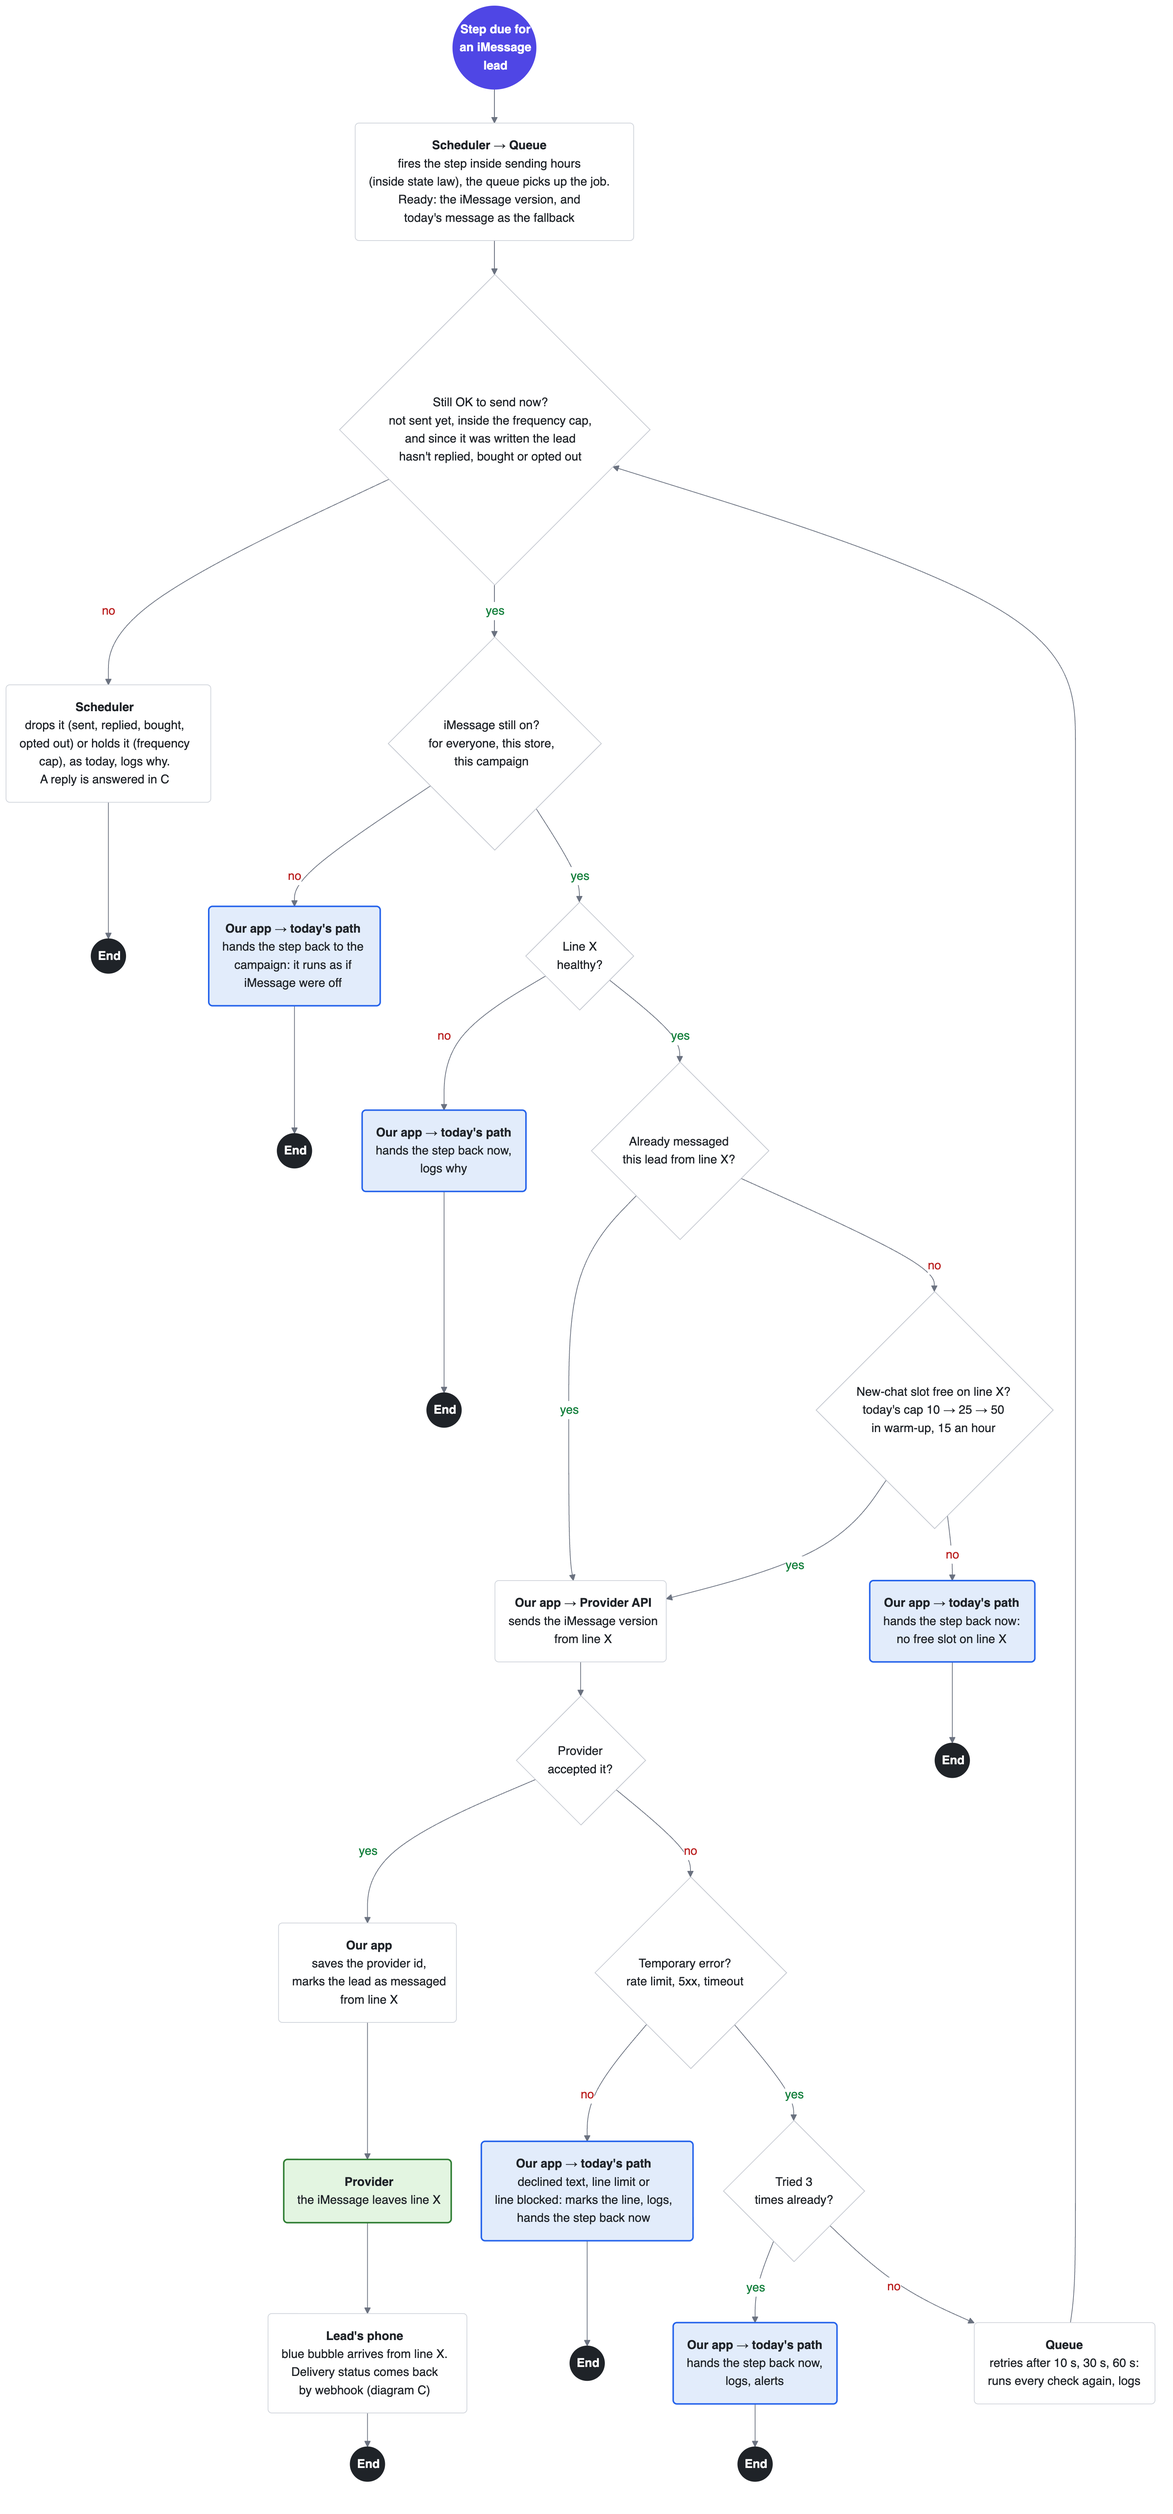
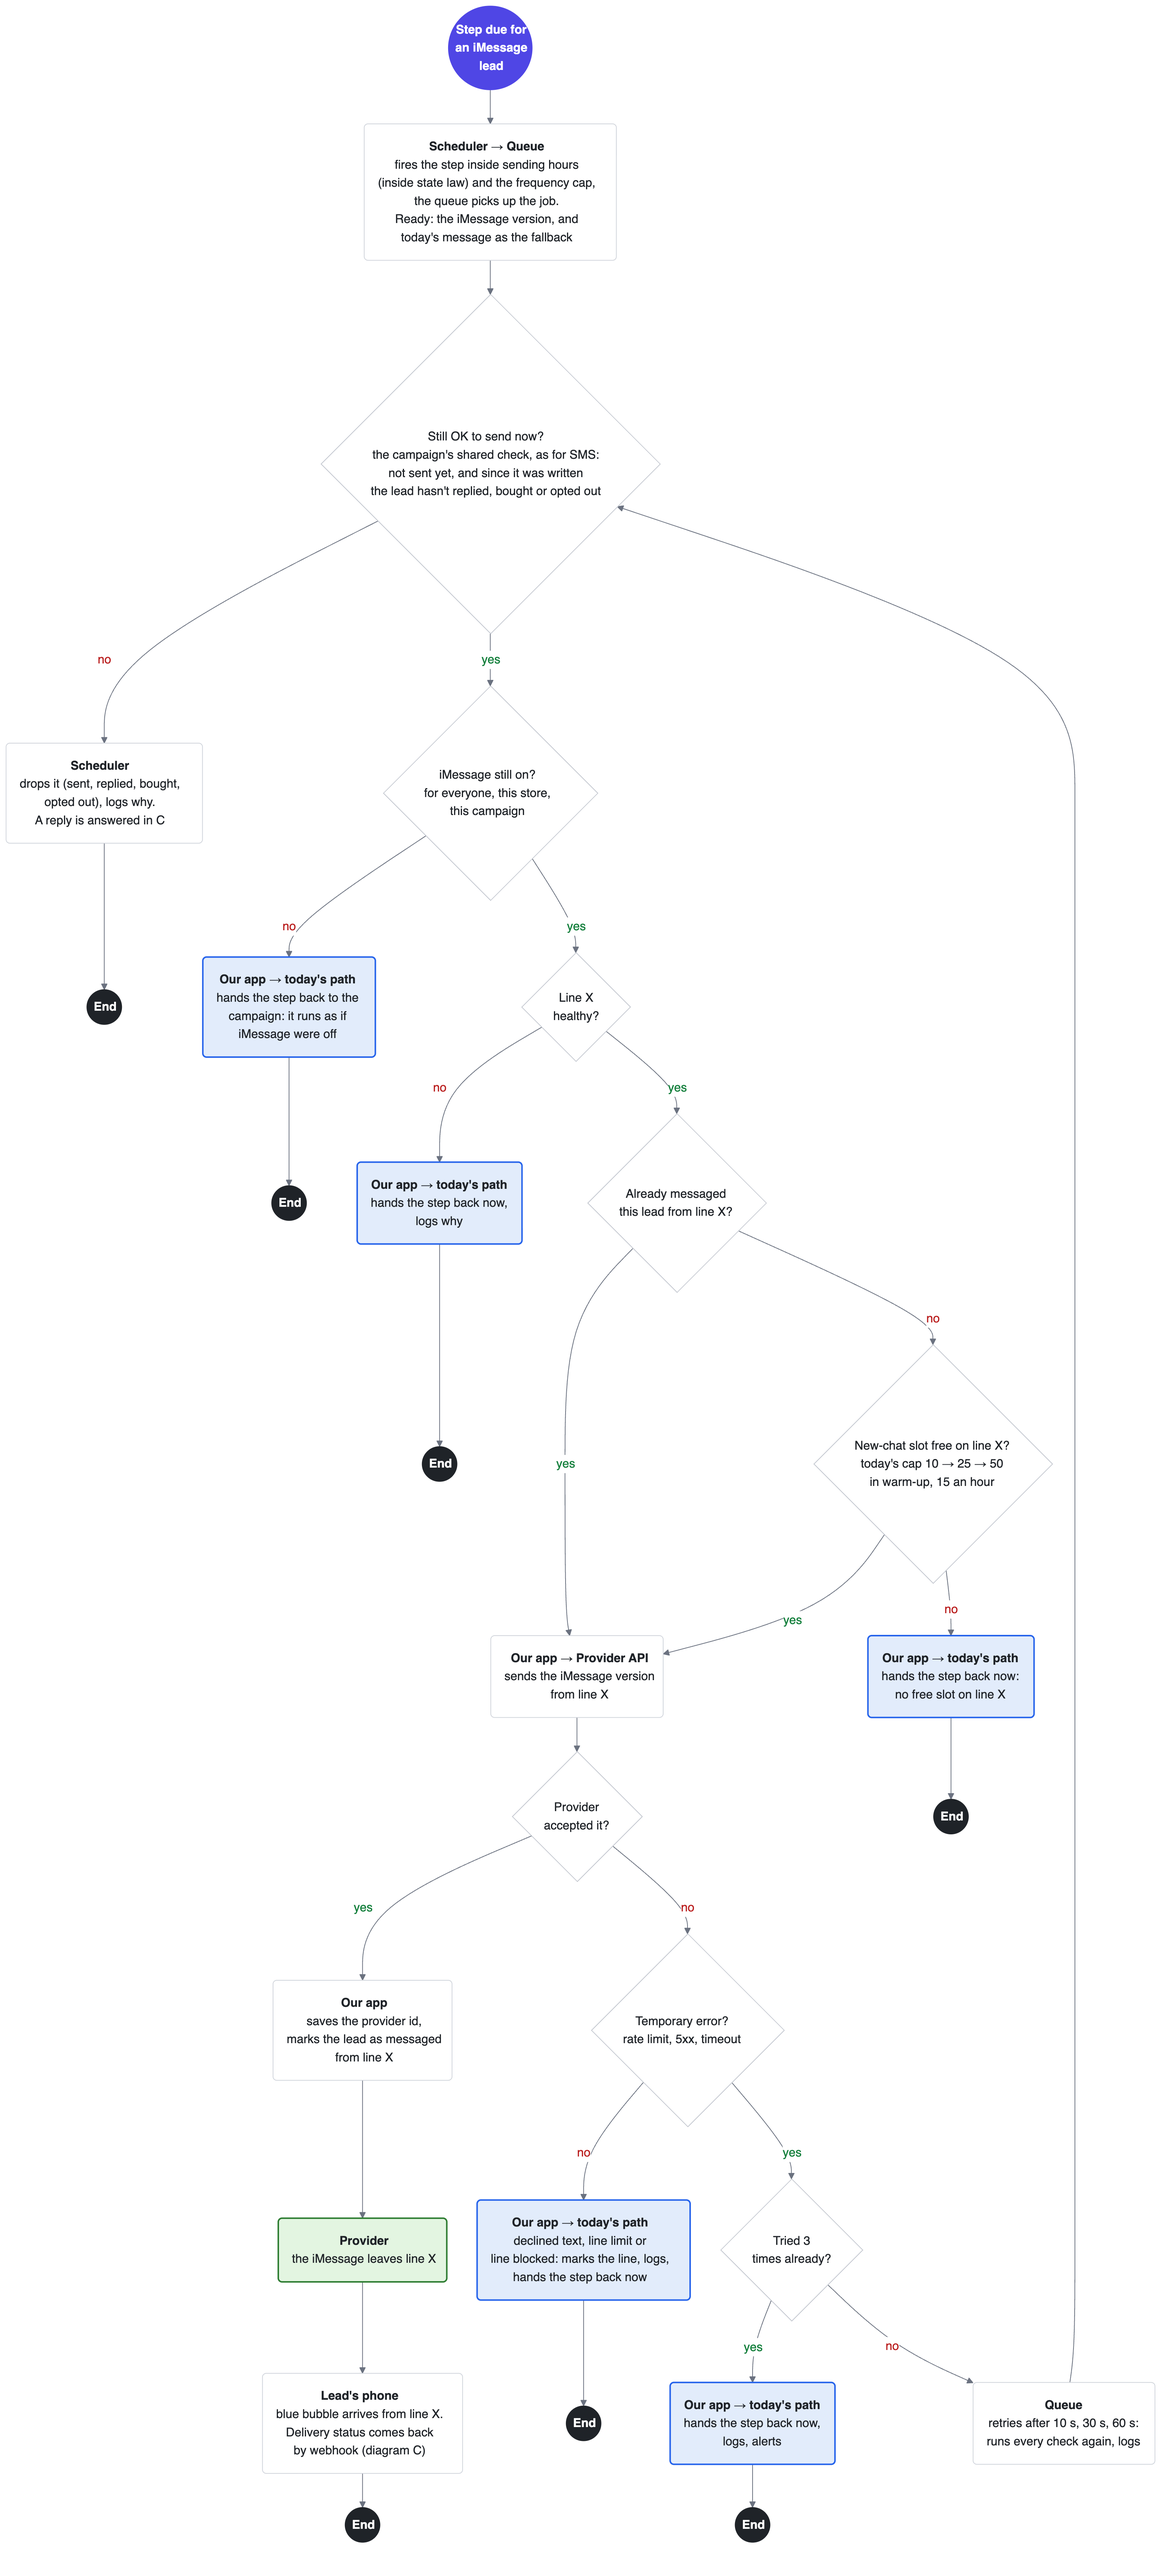
Diagram B: frequency cap moves to the scheduler; the send-time check is the campaign's shared one

diff --git a/diagrams.md b/diagrams.md
@@ -16,9 +16,9 @@ Back to the plan: [README.md](README.md)
 - **iMessage switches:** one for everyone on Outcraft (our team, or the circuit breaker when the provider is down), one per store (our admins), one per campaign. All three must be on.
 - **Which steps:** iMessage is a fifth channel. A text step is an SMS step or an iMessage step. A campaign can add iMessage steps, each with a fallback the campaign sets (SMS or a call). For a lead on iMessage, SMS steps also go from line X. One number per lead: after a hand-back, the lead's next steps run as today.
 - **Today's message:** what the campaign sends without iMessage. For an SMS step, the AI writes it as today. For an iMessage step, it's the message for its fallback (nothing to write for a call). The AI also writes an iMessage version.
-- **What B leaves to today's system:** sending hours and state legal hours (the scheduler fires the step inside them), opt-out and frequency caps (the send-time checks). B adds only the iMessage on-switch and line X's limits.
+- **What B leaves to today's system:** sending hours, state legal hours and the frequency cap (the scheduler fires the step inside them); reply, purchase and opt-out (the campaign's shared check, the same one SMS uses, run again at send time). B adds only the iMessage on-switch and line X's limits.
 - **Legal hours in C:** live replies skip the scheduler, so C checks legal hours itself, with the same rule. It checks before the AI writes, so no answer waits for hours and goes out stale.
-- **Checks in two places:** the full iMessage check runs before writing. At send time, the send-time checks and the on-switch run again, so nothing stale goes out. If the check, or the lookup, fails, the lead stays on today's path.
+- **Checks in two places:** the full iMessage check runs before writing. At send time, the campaign's shared check and the on-switch run again, so nothing stale goes out. If the check, or the lookup, fails, the lead stays on today's path.
 - **When iMessage fails:** if we know it didn't arrive (refused, failed, not on iMessage), today's message goes at once, the campaign's way. If we don't know (no receipt in 15 min), we don't resend, so the lead never gets both. The lead is marked, and the next steps run as today.
 - **The call after a text:** their default sequence calls about 3 minutes after a text step. That stays. If the lead replies first, the reply cancels scheduled steps, including that call (diagram C).
 - **Logging:** every refusal, retry, fallback and drop is logged with its reason and the provider's error key.
@@ -37,9 +37,9 @@ Back to the plan: [README.md](README.md)
 ```mermaid
 %%{init: {"theme": "base", "themeVariables": {"fontFamily": "Helvetica, Arial, sans-serif", "primaryColor": "#ffffff", "primaryBorderColor": "#d0d4db", "primaryTextColor": "#1f2328", "lineColor": "#6b7280", "edgeLabelBackground": "#ffffff"}, "themeCSS": "foreignObject { overflow: visible; } .nodeLabel { white-space: nowrap; }", "flowchart": {"curve": "basis", "nodeSpacing": 40, "rankSpacing": 45, "padding": 18}}}%%
 flowchart TD
-    S(("<b>Step due for<br/>an iMessage<br/>lead</b>")) --> A1("<b>Scheduler → Queue</b><br/>fires the step inside sending hours<br/>(inside state law), the queue picks up the job.<br/>Ready: the iMessage version, and<br/>today's message as the fallback")
-    A1 --> Q0{"Still OK to send now?<br/>not sent yet, inside the frequency cap,<br/>and since it was written the lead<br/>hasn't replied, bought or opted out"}
-    Q0 -- no --> X3("<b>Scheduler</b><br/>drops it (sent, replied, bought,<br/>opted out) or holds it (frequency<br/>cap), as today, logs why.<br/>A reply is answered in C") --> E0(("<b>End</b>"))
+    S(("<b>Step due for<br/>an iMessage<br/>lead</b>")) --> A1("<b>Scheduler → Queue</b><br/>fires the step inside sending hours<br/>(inside state law) and the frequency cap,<br/>the queue picks up the job.<br/>Ready: the iMessage version, and<br/>today's message as the fallback")
+    A1 --> Q0{"Still OK to send now?<br/>the campaign's shared check, as for SMS:<br/>not sent yet, and since it was written<br/>the lead hasn't replied, bought or opted out"}
+    Q0 -- no --> X3("<b>Scheduler</b><br/>drops it (sent, replied, bought,<br/>opted out), logs why.<br/>A reply is answered in C") --> E0(("<b>End</b>"))
     Q0 -- yes --> QI{"iMessage still on?<br/>for everyone, this store,<br/>this campaign"}
     QI -- no --> SMS1("<b>Our app → today's path</b><br/>hands the step back to the<br/>campaign: it runs as if<br/>iMessage were off"):::sms --> E2(("<b>End</b>"))
     QI -- yes --> Q7{"Line X<br/>healthy?"}
